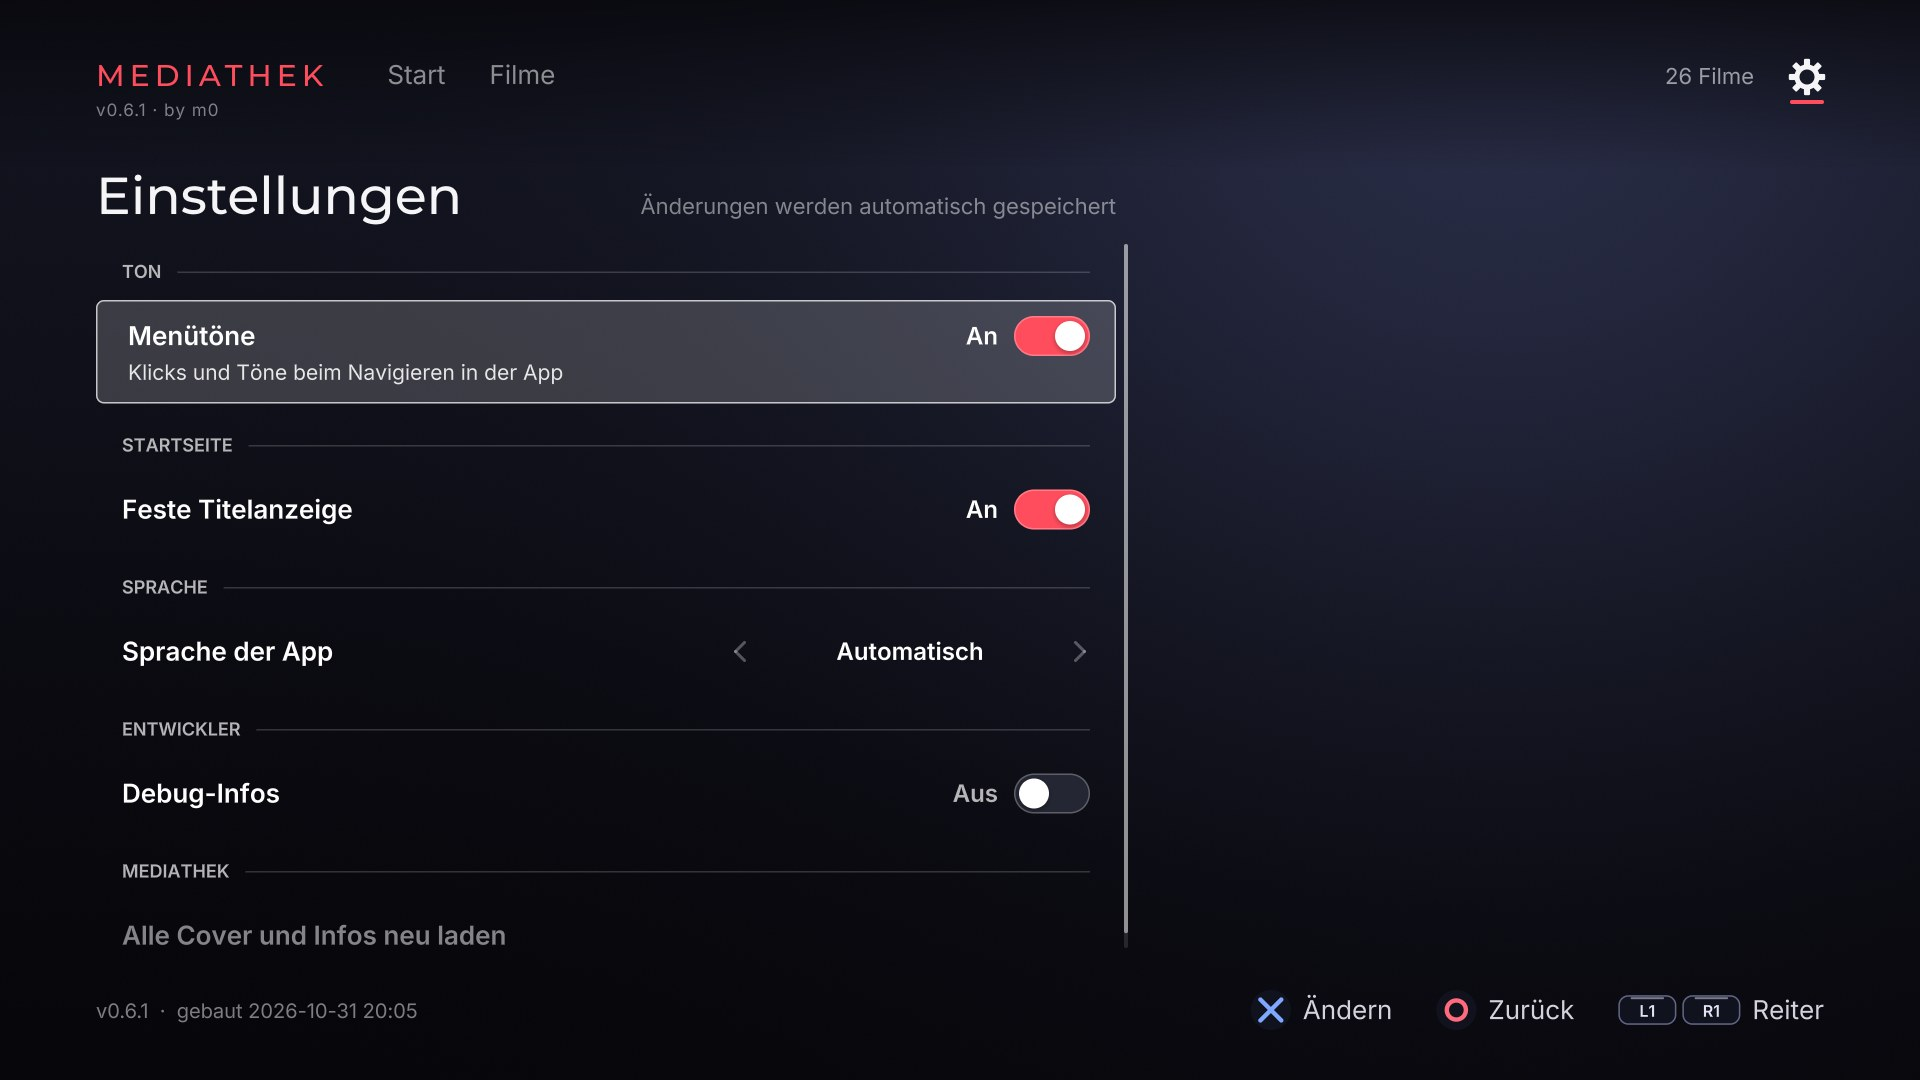
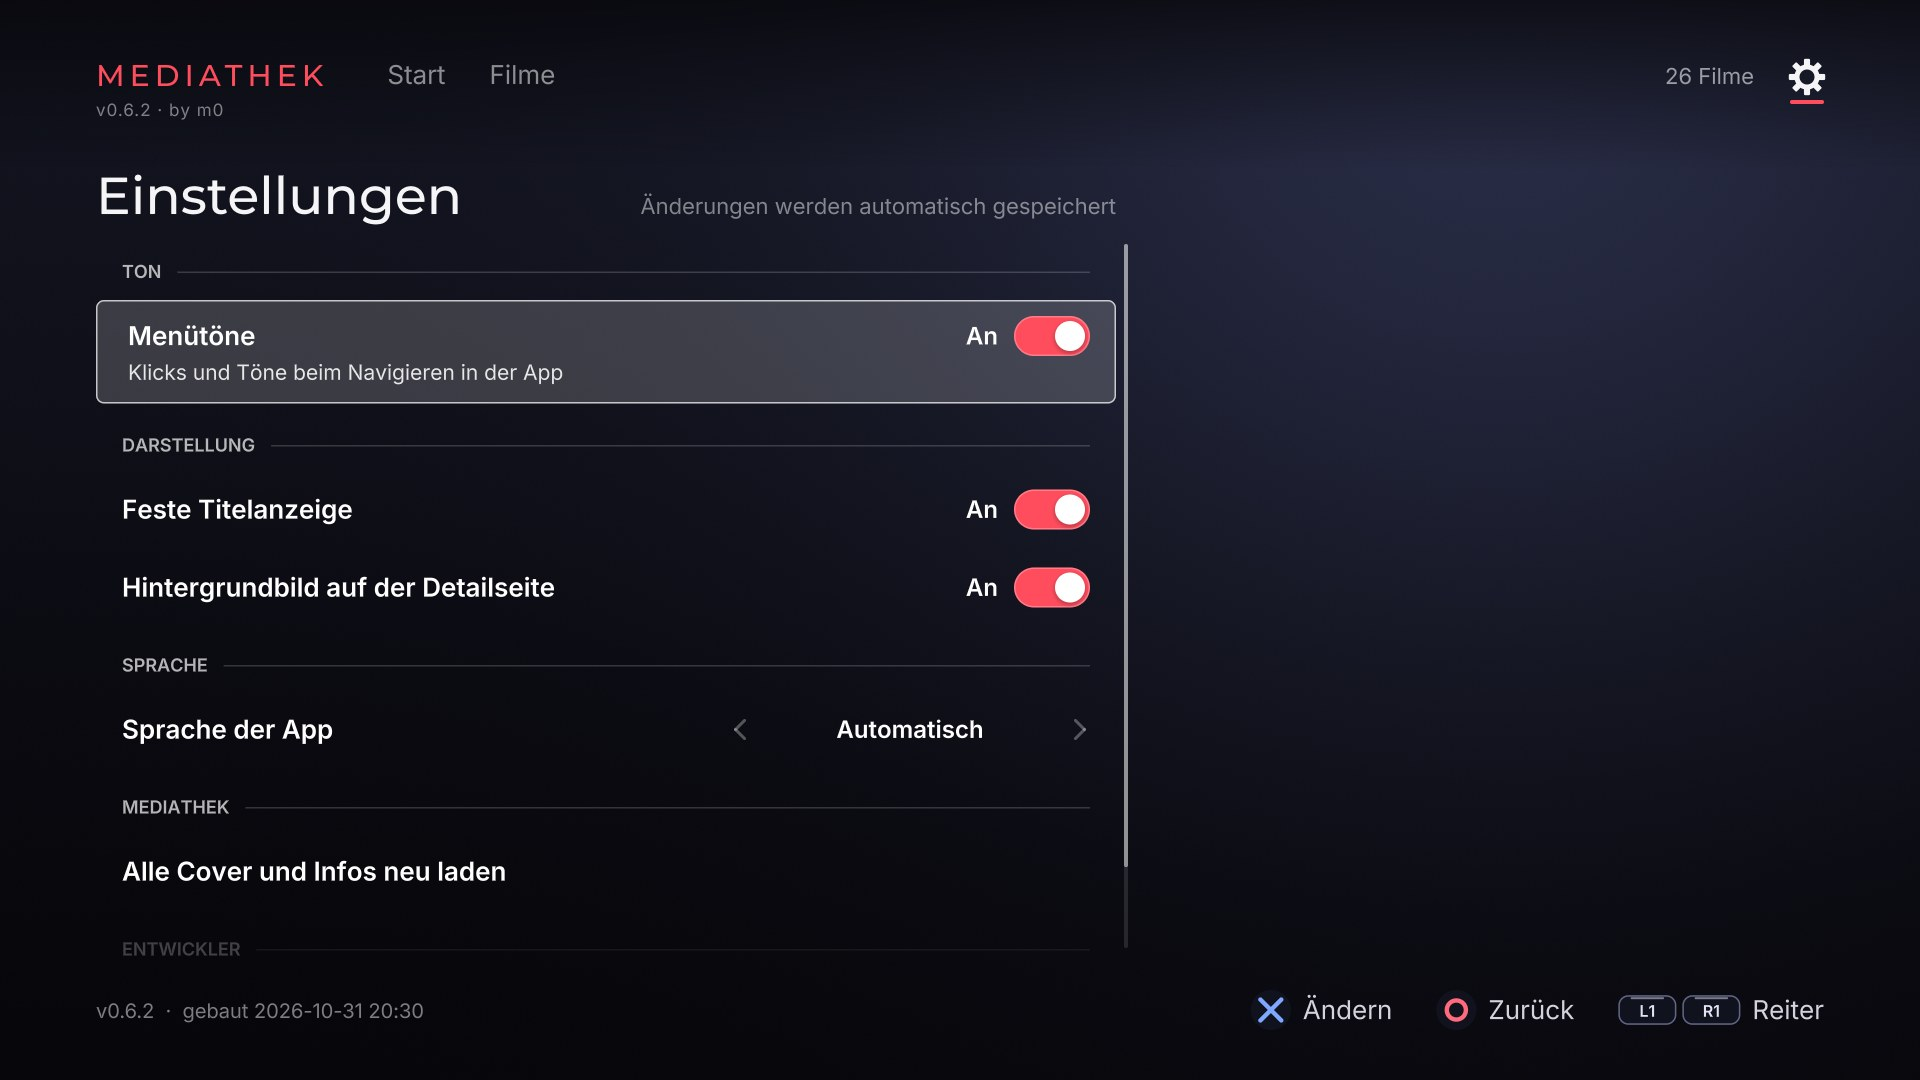
Add a details wallpaper setting, tidy the settings and show Resume while paused
Settings gets "Wallpaper on the details page" (off leaves only the film's
colour), the Home heading becomes Appearance, Reload sits above Debug info,
and the player's Cross hint reads Resume while paused.

diff --git a/src/concepts/mediathek.cpp b/src/concepts/mediathek.cpp
@@ -69,9 +69,10 @@ enum SettingsRow : int
 {
     kRowUiSounds = 1,
     kRowPinBillboard,
+    kRowDetailsWallpaper,
     kRowLanguage,
-    kRowDebug,
     kRowReload,
+    kRowDebug,
 };
 constexpr float kCardW = 176.0f; // poster at rest on a shelf
 constexpr float kCardH = 264.0f;
@@ -159,8 +160,10 @@ constexpr app::TourStep kTour[] = {
     {0.3f, 0, Direction::down},
     {0.3f, 0, Direction::down},
     {0.3f, 0, Direction::down},
-    {0.2f, action_bit(Action::confirm)},
     {0.3f, 0, Direction::down},
+    {0.3f, 0, Direction::down},
+    {0.2f, action_bit(Action::confirm)},
+    {0.3f, 0, Direction::up},
     {0.9f, 0, Direction::none, "settings-changed"},
     {0.2f, action_bit(Action::confirm)},
     {0.9f, 0, Direction::none, "reload"},
@@ -735,19 +738,23 @@ class Mediathek final : public app::Concept
         settings_form_.add_header(tr(Text::settings_sound));
         settings_form_.add_toggle(kRowUiSounds, tr(Text::settings_ui_sounds), true).description =
             tr(Text::settings_ui_sounds_hint);
-        settings_form_.add_header(tr(Text::settings_home));
+        settings_form_.add_header(tr(Text::settings_appearance));
         settings_form_.add_toggle(kRowPinBillboard, tr(Text::settings_pin_billboard), true)
             .description = tr(Text::settings_pin_billboard_hint);
+        settings_form_
+            .add_toggle(kRowDetailsWallpaper, tr(Text::settings_details_wallpaper),
+                        context_.settings.details_wallpaper)
+            .description = tr(Text::settings_details_wallpaper_hint);
         settings_form_.add_header(tr(Text::settings_language));
         settings_form_.add_choice(kRowLanguage, tr(Text::settings_ui_language),
                                   {tr(Text::settings_language_auto), "English", "Deutsch"},
                                   context_.settings.ui_language);
-        settings_form_.add_header(tr(Text::settings_developer));
-        settings_form_.add_toggle(kRowDebug, tr(Text::settings_debug), false).description =
-            tr(Text::settings_debug_hint);
         settings_form_.add_header(tr(Text::settings_library));
         settings_form_.add_action(kRowReload, tr(Text::settings_reload)).description =
             tr(Text::settings_reload_hint);
+        settings_form_.add_header(tr(Text::settings_developer));
+        settings_form_.add_toggle(kRowDebug, tr(Text::settings_debug), false).description =
+            tr(Text::settings_debug_hint);
         settings_form_.set_bounds({kMargin, 236.0f, 1020.0f, 720.0f});
         sync_settings_form();
 
@@ -761,6 +768,7 @@ class Mediathek final : public app::Concept
     {
         settings_form_.set_toggle(kRowUiSounds, context_.settings.ui_volume > 0);
         settings_form_.set_toggle(kRowPinBillboard, context_.settings.pin_billboard);
+        settings_form_.set_toggle(kRowDetailsWallpaper, context_.settings.details_wallpaper);
         settings_form_.set_toggle(kRowDebug, context_.settings.show_fps);
         settings_form_.set_choice(kRowLanguage, context_.settings.ui_language);
     }
@@ -813,6 +821,10 @@ class Mediathek final : public app::Concept
         else if (row == kRowPinBillboard)
         {
             settings.pin_billboard = settings_form_.toggle_value(row);
+        }
+        else if (row == kRowDetailsWallpaper)
+        {
+            settings.details_wallpaper = settings_form_.toggle_value(row);
         }
         else if (row == kRowLanguage)
         {
@@ -2006,13 +2018,13 @@ class Mediathek final : public app::Concept
     }
 
     // The wallpaper of the page behind the details, over the whole screen. A
-    // film without one leaves the tinted page colour, with a glow.
+    // film without one (or with the setting off) leaves the tinted page colour, with a glow.
     void draw_details_art(gfx::DrawList &list, int index, float t) const
     {
         const media::Movie &m = movie(index);
         const Color tone = tone_.value();
         const media::Art *wide = nullptr;
-        if (svc_->posters != nullptr && !m.backdrop.empty())
+        if (svc_->posters != nullptr && !m.backdrop.empty() && context_.settings.details_wallpaper)
             wide = svc_->posters->get(m.backdrop, media::ArtKind::backdrop);
         // It drifts out to its full size as the page opens, like the hero.
         const float grow = 28.0f * (1.0f - t);
@@ -2450,11 +2462,12 @@ class Mediathek final : public app::Concept
                 list.rounded_rect({cx - 24, 540 - 28, 16, 56}, 4, kInk);
                 list.rounded_rect({cx + 8, 540 - 28, 16, 56}, 4, kInk);
             }
-            const ui::Hint hints[] = {{ui::Button::cross, tr(Text::hint_pause)},
-                                      {ui::Button::dpad, tr(Text::hint_seek)},
-                                      {ui::Button::square, tr(Text::hint_audio)},
-                                      {ui::Button::triangle, tr(Text::hint_subtitles)},
-                                      {ui::Button::circle, tr(Text::hint_stop)}};
+            const ui::Hint hints[] = {
+                {ui::Button::cross, tr(paused_ ? Text::button_resume : Text::hint_pause)},
+                {ui::Button::dpad, tr(Text::hint_seek)},
+                {ui::Button::square, tr(Text::hint_audio)},
+                {ui::Button::triangle, tr(Text::hint_subtitles)},
+                {ui::Button::circle, tr(Text::hint_stop)}};
             ui::draw_hints(list, fonts, ui::GlyphStyle::dark(), hints, 5, 1824, true);
             list.pop_opacity();
         }

diff --git a/tests/unit/save_file_test.cpp b/tests/unit/save_file_test.cpp
@@ -107,6 +107,7 @@ TEST(Settings, RoundTripsEveryField)
 TEST(Settings, AFileFromBeforeTheFixedBillboardStillLoadsWithItsDefault)
 {
     std::string data = hui::encode_settings(hui::Settings{});
+    data.pop_back(); // the wallpaper
     data.pop_back(); // the language
     data.pop_back(); // the billboard
     data[0] = 1;
@@ -123,6 +124,23 @@ TEST(Settings, AFileFromBeforeTheFixedBillboardStillLoadsWithItsDefault)
     EXPECT_FALSE(hui::decode_settings(data, &read));
 }
 
+TEST(Settings, TheWallpaperChoiceIsSavedAndAnOlderFileKeepsTheWallpaper)
+{
+    hui::Settings settings;
+    ASSERT_TRUE(settings.details_wallpaper);
+    settings.details_wallpaper = false;
+    hui::Settings read;
+    ASSERT_TRUE(hui::decode_settings(hui::encode_settings(settings), &read));
+    EXPECT_FALSE(read.details_wallpaper);
+
+    std::string data = hui::encode_settings(settings);
+    data.pop_back();
+    data[0] = 3; // saved by the build with the language setting only
+    read.details_wallpaper = false;
+    ASSERT_TRUE(hui::decode_settings(data, &read));
+    EXPECT_TRUE(read.details_wallpaper);
+}
+
 TEST(Settings, TheLanguageChoiceIsSavedAndAFileWithoutItMeansAutomatic)
 {
     hui::Settings settings;
@@ -132,14 +150,15 @@ TEST(Settings, TheLanguageChoiceIsSavedAndAFileWithoutItMeansAutomatic)
     EXPECT_EQ(read.ui_language, 2);
 
     std::string data = hui::encode_settings(settings);
-    data.pop_back();
-    data[0] = 2; // saved by 0.6.x, before the language setting
+    data.pop_back(); // the wallpaper
+    data.pop_back(); // the language
+    data[0] = 2;     // saved by 0.6.0 and 0.6.1, before the language setting
     read.ui_language = 1;
     ASSERT_TRUE(hui::decode_settings(data, &read));
     EXPECT_EQ(read.ui_language, 0);
 
     data = hui::encode_settings(settings);
-    data.back() = 9; // not a language
+    data[data.size() - 2] = 9; // not a language
     ASSERT_TRUE(hui::decode_settings(data, &read));
     EXPECT_EQ(read.ui_language, 2);
 }

diff --git a/src/core/settings.cpp b/src/core/settings.cpp
@@ -13,11 +13,12 @@ namespace hui
 
 namespace
 {
-// Version 2 appends pin_billboard and version 3 ui_language; older files are still read (the
-// settings they lack keep their defaults).
-constexpr std::uint8_t kVersion = 3;
+// Version 2 appends pin_billboard, version 3 ui_language and version 4 details_wallpaper; older
+// files are still read (the settings they lack keep their defaults).
+constexpr std::uint8_t kVersion = 4;
 constexpr std::uint8_t kVersionWithoutPin = 1;
 constexpr std::uint8_t kVersionWithoutLanguage = 2;
+constexpr std::uint8_t kVersionWithoutWallpaper = 3;
 } // namespace
 
 std::string encode_settings(const Settings &settings)
@@ -37,6 +38,7 @@ std::string encode_settings(const Settings &settings)
     w.put(static_cast<std::uint8_t>(settings.concept_index));
     w.put_bool(settings.pin_billboard);
     w.put(static_cast<std::uint8_t>(settings.ui_language));
+    w.put_bool(settings.details_wallpaper);
     return w.data();
 }
 
@@ -44,7 +46,7 @@ bool decode_settings(std::string_view data, Settings *settings)
 {
     bytes::Reader r(data);
     const std::uint8_t version = r.get<std::uint8_t>();
-    if (version != kVersion && version != kVersionWithoutPin && version != kVersionWithoutLanguage)
+    if (version < kVersionWithoutPin || version > kVersion)
         return false;
     Settings s;
     s.music_volume = std::clamp<int>(r.get<std::uint8_t>(), 0, 10);
@@ -60,8 +62,10 @@ bool decode_settings(std::string_view data, Settings *settings)
     s.concept_index = r.get<std::uint8_t>();
     if (version != kVersionWithoutPin)
         s.pin_billboard = r.get_bool();
-    if (version == kVersion)
+    if (version > kVersionWithoutLanguage)
         s.ui_language = std::clamp<int>(r.get<std::uint8_t>(), 0, 2);
+    if (version > kVersionWithoutWallpaper)
+        s.details_wallpaper = r.get_bool();
     if (!r.finished())
         return false;
     *settings = s;

diff --git a/tests/unit/mediathek_test.cpp b/tests/unit/mediathek_test.cpp
@@ -442,7 +442,13 @@ TEST_F(MediathekTest, TheTogglesChangeTheSettingsAtOnceAndSayThatTheyChanged)
     EXPECT_FALSE(settings_.pin_billboard);
     EXPECT_TRUE(context_.settings_changed);
 
+    send(*design, nav(Direction::down), 0.3f);
+    context_.settings_changed = false;
+    send(*design, press(Action::confirm), 0.4f); // the wallpaper of the details page
+    EXPECT_FALSE(settings_.details_wallpaper);
+    EXPECT_TRUE(context_.settings_changed);
     send(*design, nav(Direction::down), 0.3f); // the language row
+    send(*design, nav(Direction::down), 0.3f); // reload all covers and infos
     send(*design, nav(Direction::down), 0.3f);
     context_.settings_changed = false;
     send(*design, press(Action::confirm), 0.4f); // debug info
@@ -505,6 +511,7 @@ TEST_F(MediathekTest, TheLanguageRowSwitchesTheAppAtOnce)
     send(*design, press(Action::page_next), 0.5f);
     send(*design, press(Action::page_next), 0.5f);
     send(*design, nav(Direction::down), 0.3f);
+    send(*design, nav(Direction::down), 0.3f);
     send(*design, nav(Direction::down), 0.3f); // the language row
     ASSERT_EQ(settings_.ui_language, 0);
 
@@ -543,7 +550,9 @@ TEST_F(MediathekTest, TheSettingsPageShowsWhatWasSaved)
     send(*design, nav(Direction::down), 0.3f);
     send(*design, press(Action::confirm), 0.4f);
     EXPECT_FALSE(settings_.pin_billboard);
+    send(*design, nav(Direction::down), 0.3f); // the wallpaper
     send(*design, nav(Direction::down), 0.3f); // the language row
+    send(*design, nav(Direction::down), 0.3f); // reload all covers and infos
     send(*design, nav(Direction::down), 0.3f);
     send(*design, press(Action::confirm), 0.4f);
     EXPECT_FALSE(settings_.show_fps);

diff --git a/src/core/settings.hpp b/src/core/settings.hpp
@@ -27,6 +27,9 @@ struct Settings
     // Mediathek: the Home billboard (art, title and Play) stays while the shelves under it
     // scroll, instead of collapsing once the first shelf is left.
     bool pin_billboard = true;
+    // Mediathek: the wallpaper of the film behind its details page. Off, the page has only the
+    // film's colour, as a film without a wallpaper has.
+    bool details_wallpaper = true;
     // Mediathek: the language of the app's texts. 0 follows the console (or UI_LANGUAGE in
     // mediathek.env), 1 is English, 2 is German.
     int ui_language = 0;

diff --git a/README.md b/README.md
@@ -54,15 +54,16 @@ glass behave like the console's own software.
   watched and Refresh cover and info on the right. L1/R1 or left/right step to
   the previous or next film of the shelf (or the grid) you came from, without
   going back.
-- **Settings**: the gear at the top right (L1/R1 walk Home, Movies, Settings). *Fixed
-  billboard* keeps the Home billboard with Play on screen while you scroll
-  down through the shelves (on by default; off: it collapses after the first shelf).
-  *App language* picks Automatic (the console's), English or Deutsch. *UI sounds* switch the menu sounds on or off (on by default), *Debug info* shows
-  the frame rate and drawing statistics in the corner (off by default), and *Reload
-  all covers and infos* asks first, then fetches cover, wallpaper and description of
-  every film from TMDB again and reads every file again (pictures you put beside a
-  film stay). Changes apply at once and are saved by themselves. The page's bottom left shows the
-  version and when this build was made.
+- **Settings**: the gear at the top right (L1/R1 walk Home, Movies, Settings). *UI sounds*
+  switch the menu sounds on or off (on by default). *Fixed billboard* keeps the Home billboard
+  with Play on screen while you scroll down through the shelves (on by default; off: it
+  collapses after the first shelf). *Wallpaper on the details page* can be switched off (the
+  page then keeps only the film's colour). *App language* picks Automatic (the console's),
+  English or Deutsch. *Reload all covers and infos* asks first, then fetches cover, wallpaper
+  and description of every film from TMDB again and reads every file again (pictures you put
+  beside a film stay). *Debug info* shows the frame rate and drawing statistics in the corner
+  (off by default). Changes apply at once and are saved by themselves. The page's bottom left
+  shows the version and when this build was made.
 - **Player**: scrubber, seek ±10 s (hold: ±30 s, growing to ±5 min the longer you hold; L1/R1 or L2/R2: ±60 s), pause,
   audio track switching (Square) and `.srt` subtitle switching (Triangle; with
   several subtitle files it steps through them and then off), a stream info panel. It remembers

diff --git a/AGENTS.md b/AGENTS.md
@@ -182,8 +182,9 @@ none), what a file contains in `info/<id>.info`, resume points beside them. Sett
 **The settings page.** The gear tab (`Tab::settings`, a `ui::Form` in `mediathek.cpp`)
 edits the kit's `Settings`: *UI sounds* is `ui_volume` (0 off, else the default), *Debug
 info* is `show_fps` (the shell's overlay), *Fixed billboard* is `pin_billboard` (on by default; keeps
-`hero_` open on every shelf, `animate()`; the settings file is format version 3, older ones still
-load with the defaults; *App language* is `ui_language`). The page's bottom left shows the version and `build_time()`
+`hero_` open on every shelf, `animate()`; the settings file is format version 4, older ones still
+load with the defaults; *App language* is `ui_language`, *Wallpaper on the details page* is
+`details_wallpaper`, read by `draw_details_art`). The page's bottom left shows the version and `build_time()`
 (`core/build_info.cpp`, `__DATE__`/`__TIME__`; `tools/build.sh` touches the file so every build
 stamps it). A change sets `context_.settings_changed`;
 the shell saves `/download0/hui/settings.bin` 0.75 s after the last one, and `main.cpp`

diff --git a/CHANGELOG.md b/CHANGELOG.md
@@ -2,6 +2,13 @@
 
 ## 0.6.2 (01.000.062)
 
+- While the film is paused, the Cross hint in the player reads "Resume" ("Fortsetzen") instead of
+  "Pause".
+- A new setting, *Wallpaper on the details page* (Settings, under Appearance; on by default).
+  Off, the details page shows only the film's colour with its glow and fades, as it does for a
+  film without a wallpaper. The Home heading of the settings is now called Appearance, and *Reload all covers and infos*
+  now sits above *Debug info*. The
+  settings file gains one byte (format version 4); earlier files load with the wallpaper on.
 - A new setting, *App language* (Settings, under Language): Automatic (the console's language,
   or UI_LANGUAGE in mediathek.env), English or Deutsch. It changes every text at once, shelves
   and Settings page included. A choice made there wins over UI_LANGUAGE. Descriptions fetched
